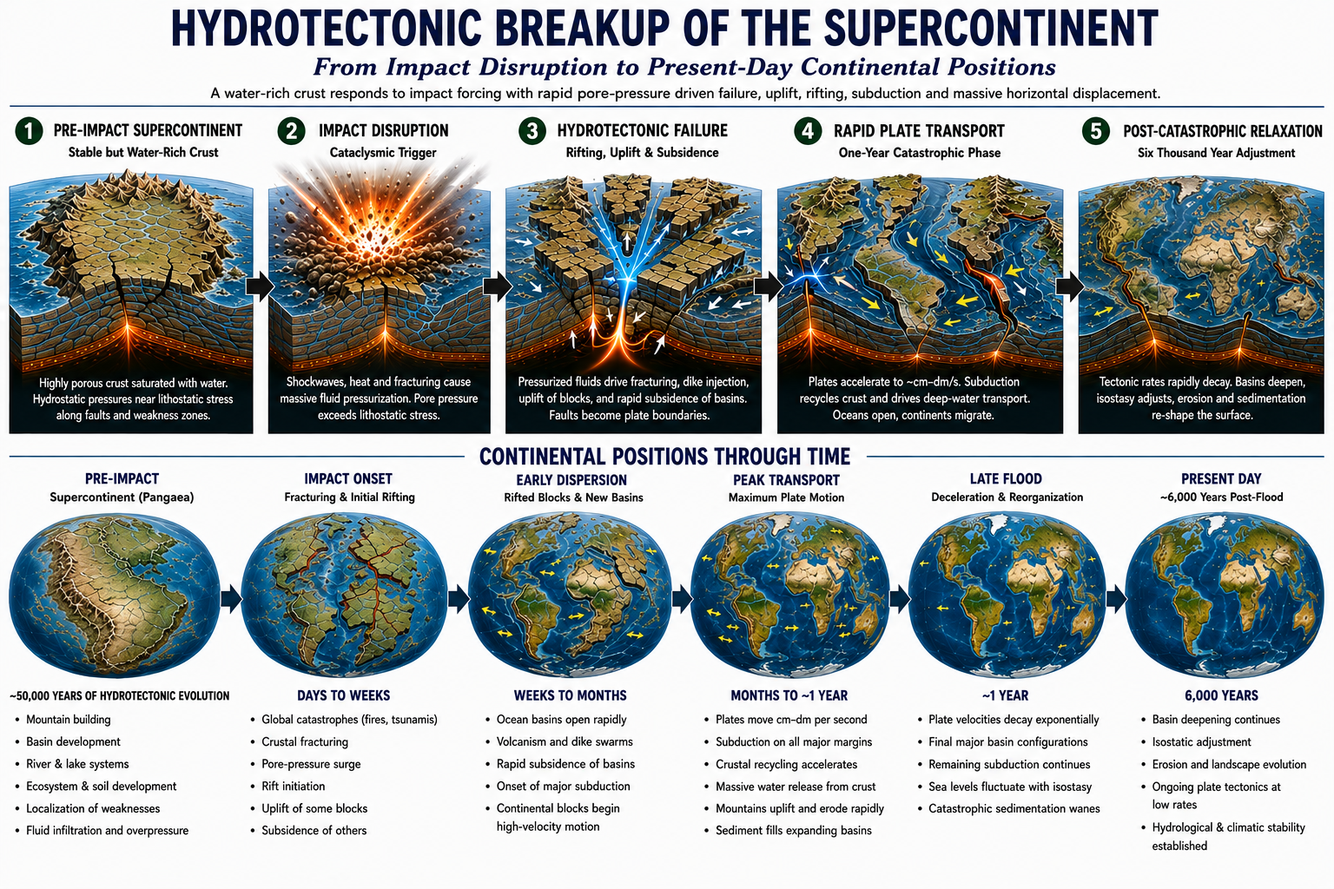
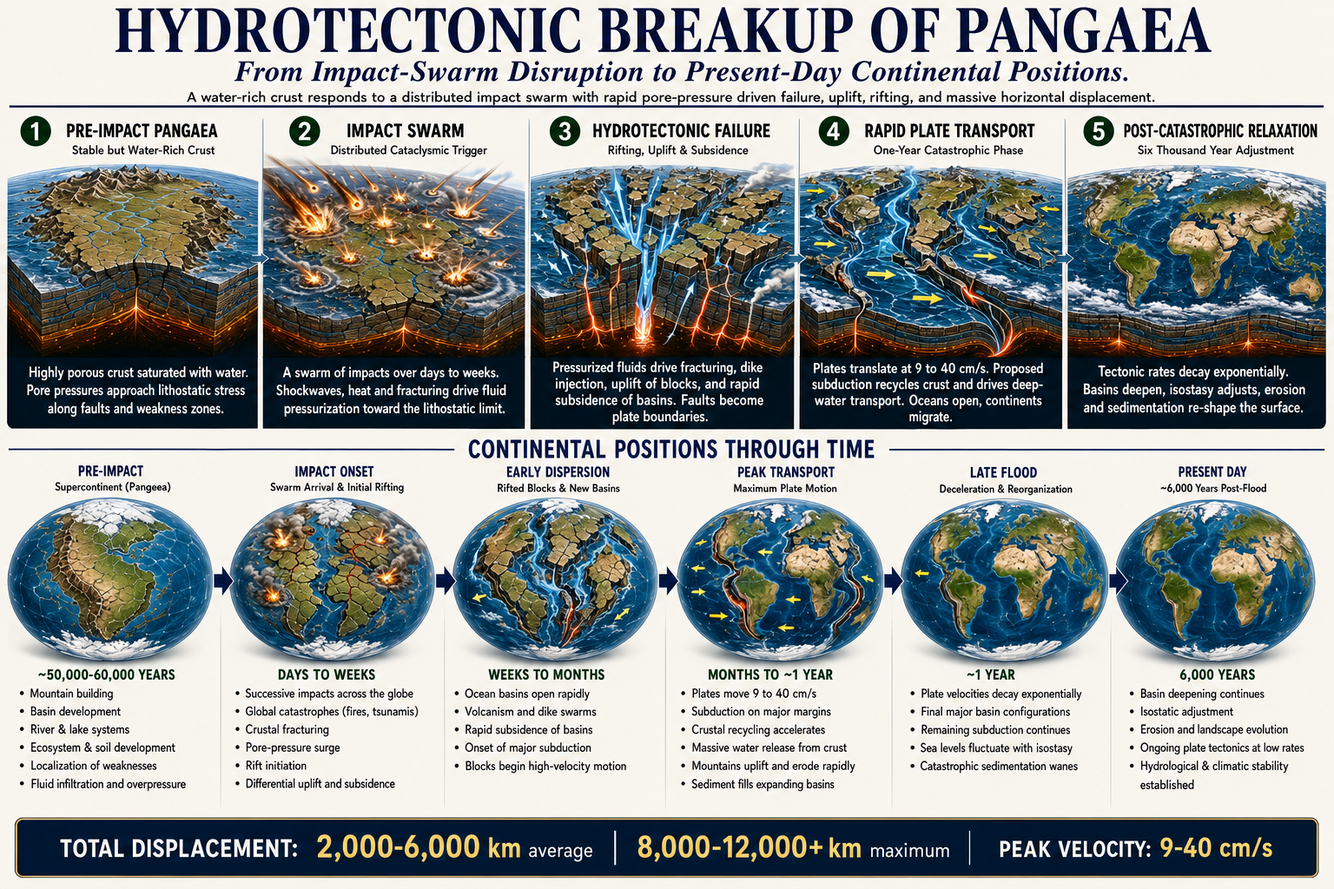
File second breakup-figure revision; close the 2026-08-16 velocity discrepancy
Rendered from the written spec derived from the previous audit. Fixes all three
discrepancies flagged hours earlier, plus the one carried since the programme's
second day.

- Impact swarm: eight-plus distinct impacts with bolides in flight. Resolves the
  regression against sibling figure initial-meteor-event.png; consistent with the
  F3/F4 swarm commitment and the same-day 40-day-distribution requirement.
- Pore pressure: "approach lithostatic stress" / "toward the lithostatic limit",
  matching WP-HTF-0003's lambda = 0.999995 to 0.9999996 and removing the figure's
  own internal contradiction.
- Subduction labelled "proposed", so the figure no longer asserts as accomplished
  what the open rheology gate has not established.
- VELOCITY CLOSED. Open since the 2026-08-16 audit: the original stated ~0.01-0.1
  m/s against a research figure of 9-40 cm/s, severe enough to force a crop for
  paper use. This render states 9 to 40 cm/s in caption, bullet and banner.

The crop's cost is also recovered: displacement distances (2,000-6,000 km average,
8,000-12,000+ km maximum) restored in a dedicated banner strip, separated from the
velocity figure so a future velocity dispute cannot take them down with it.

One residual recorded rather than absorbed: the bottom-row first globe reads
"Supercontinent (Pangea)" — the simplified spelling declined earlier the same day —
against "PANGAEA" in the title and panel 1. Not a blocker; the single item for any
future render.
[…]

diff --git a/03-solutions-baseline/3.3-prediction/appraisal.md b/03-solutions-baseline/3.3-prediction/appraisal.md
@@ -82,3 +82,4 @@ A claim that forbids an observation ordinary historical geology permits — or p
 | 2026-08-19 | **Genre identified as forensic; the discriminator standard re-based on Cleland's smoking gun** (JD-directed: *"This is a forensics exercise and model."* Full record [`../../dev-notes/20260819-forensic-genre-cleland.md`](../../dev-notes/20260819-forensic-genre-cleland.md); primary source **Cleland, C.E. (2001), *Geology* 29(11):987–990**, full text retrieved and read, confidence HIGH). Researched rather than accepted as a framing note. Cleland's thesis, in a mainstream geology journal: *"When it comes to testing hypotheses, historical science is not inferior to classical experimental science."* The method keyed to the genre is Chamberlin's multiple working hypotheses plus a search for a **smoking gun** — *"a trace that picks out one of the competing hypotheses as providing a better causal explanation for the currently available traces than the others"* — because the **asymmetry of overdetermination** means *"localized present events overdetermine their causes,"* leaving far more traces than are needed. **[`discriminators.md`](discriminators.md)'s four conditions were Popperian, i.e. experimental-science shape applied to a historical-science problem, and are re-based:** condition 2 (rival predicts it too → discriminates nothing) **promoted to the centre**, since it was always the smoking-gun criterion stated negatively; "forbids" **reframed as "discriminates,"** with **exclusion recognised as a first-class result** per forensic practice; "evaluable" **sharpened by rule 23c** (trace, not reconstruction); **pre-registration demoted from gate to discipline**, because Cleland's own paradigm smoking gun — the Alvarez K-Pg iridium anomaly — *"was not predicted in advance of its discovery"*; and **a fifth condition added: name the competing-hypothesis set**, which nothing in the belt previously supplied. Rule 24 and a new `methodology.md` §Genre carry the same content on the practice and framing surfaces | **The bar went up, not down, and this was checked rather than asserted.** Pre-registration was removed as genre-inappropriate; an explicit hypothesis set was added that no existing candidate currently states — all of 1, 2, 5, 6, 7 now owe it. **No killed candidate is resurrected:** the K-Pg ichnofabric verdict was re-checked and holds, more sharply (a trace both hypotheses predict picks out neither), since its fatal objection was always condition 2 and condition 2 is now the standard's centre. **Candidate 4 is weakened** by its own re-scoring (tomography is an inversion, so the "trace" is a model output) and **candidate 8 strengthened** (gap morphology is genuinely observational). The substantive re-reading: the **vapor ceiling** and the **enthalpy ceiling that killed CPT's steam jets** are *exclusions*, which forensic practice treats as first-class products and which had no natural category under the old framing — on this standard they are the most substantial evidential products the programme currently holds. That is a materially different picture from "zero discriminators evaluated," arrived at without lowering anything. Also recorded: the overclaim to avoid, since Cleland's K-Pg example points to *an impact* both accounts accept and therefore supplies methodological precedent, **not** evidential support |
 | 2026-08-19 | **"Araratia" retired; the pre-Flood supercontinent is Pangaea** (JD-directed. Full record [`../../dev-notes/20260819-retire-araratia.md`](../../dev-notes/20260819-retire-araratia.md)). Traditional spelling adopted — Wegener's 1920 *Pangäa*, Greek παν + Γαῖα with the αι digraph rendered *ae* as the geological literature prints it; also the form already used in this repo 9 times against 1, so it is both the scholarly convention and the lower-churn choice. **The substantive move behind the cosmetic one, stated because rule 23b makes it load-bearing:** a bespoke name asserted this programme's $S_0$ was *its own* reconstruction, distinct from the conventional one. Adopting **Pangaea** asserts instead that $S_0$ **is** the supercontinent mainstream reconstruction already names, and that the two accounts differ over its **timing and breakup mechanism**, not over its existence or geometry. **This costs the programme something real:** the supercontinent's configuration is no longer free, since Pangaea has a published geometry and fit, so ROADMAP item 2 (replace the anchor-distance proxy with an actual Pangaea-fit Euler-pole reconstruction) becomes **more** binding, not less — the target is now named. The benefit is removal of a gratuitous divergence: a bespoke name for an object both accounts accept invites exactly the just-so-story reading [`../../04-construct/methodology.md`](../../04-construct/methodology.md) §Genre warns against, and sharing the rival's vocabulary for a shared object concentrates the disagreement where it actually is. **Execution:** 15 occurrences across 10 files classified into three treatments rather than swept blindly, same discipline that saved the 2026-08-18 repo rename from corrupting 35 of 46 matches — **5 renamed** (living belt content: `hard-core.md` commitment 4, `stratigraphy/README.md` phase table, `kinematics/README.md` opening rewritten rather than substituted, `POSITION-PAPER.md` §1), **5 preserved** (dated records — this appraisal's own 2026-08-16 rows and both `20260817-*` dev-notes, since editing them would falsify what was decided then), **5 preserved and flagged** (descriptions of already-shipped videos and rendered PNGs that display the retired name; editing a description to disagree with its artifact makes the record less accurate, not more) | **Nominal at the belt surface, substantive at the hypothesis surface, and no verdict moved.** Records a genuine narrowing of the dispute with the rival — from "does this supercontinent exist and what was it" to "when did it break up and by what mechanism" — which is the more testable question and the harder one for this programme. **Open work created, both deliberately left as JD's calls rather than mechanical follow-ups:** re-render the visualization set, since the images are the artifact and no text edit reaches them; and the published Zenodo PDF (10.5281/zenodo.21972859) carries "Araratia" in its commitment 4, the same attached-file-versus-metadata problem the 2026-08-18 title change hit |
 | 2026-08-19 | **Revised breakup infographic audited, filed, and predecessors archived** (JD-directed; audit in [`../../assets/images/README.md`](../../assets/images/README.md)). Filed as `assets/images/hydrotectonic-breakup-sequence.png`; `continental-shift.png` and `continental-shift-cropped.png` moved to `assets/images/archive/` rather than deleted, per rules 6 and 17. **Verdict: viable, and it fixes both defects flagged against its predecessor on 2026-08-16.** (1) It names the supercontinent **Pangaea**, matching the same-day retirement of "Araratia" — the predecessor displayed the retired term and had been marked stale hours earlier. (2) **Pacing corrected**: the predecessor showed near-complete rifting into continent-shaped blocks at "Days to Weeks," ahead of peak transport at "Months to ~1 Year"; the revision runs initial rifting at days-to-weeks, early dispersion at weeks-to-months, peak transport at months-to-a-year, consistent with the model's own relaxation profile. **Velocity improved but not fully resolved:** the predecessor's hard ~0.01–0.1 m/s range had its ceiling at or below the research floor of 9–40 cm/s — the conflict that forced the 2026-08-16 crop — while the revision states "~cm–dm/s" as an order of magnitude, which accommodates 0.09–0.406 m/s where the old range could not, but still is not the belt's specific figure. **Three discrepancies flagged rather than absorbed:** the trigger is drawn as a *single* impact where the belt commits to a **swarm** (a regression against sibling figure `initial-meteor-event.png`, which renders multiple impacts, and now also against the 2026-08-19 requirement that the swarm be temporally distributed across the 40 days); one panel reads "pore pressure **exceeds** lithostatic stress" where `WP-HTF-0003` derives λ = 0.999995–0.9999996, i.e. approaching lithostatic from *below*, and it contradicts the figure's own panel 1 ("near lithostatic"); and subduction is depicted as accomplished when the vertical half remains the open rheology gate, 3–4 orders short. Position paper Figure 3 switched to the revision with its caption rewritten — the crop workaround is retired, since its stated revisit condition (the velocity/detachment reconciliation) was met by `WP-HTF-0003` on 2026-08-18 | **No belt content changed and no verdict moved — this is an illustration swap, audited to the same standard as a belt claim.** Recorded because the audit found the revision *regressing* on one point (single impact vs. swarm) even while fixing two others, and reporting only the fixes would have been the selective reading rule 4a exists to prevent. The archived pair is retained rather than deleted so the 2026-08-16 audit and the 2026-08-19 comparison both stay checkable. One recoverable loss noted: the displacement distances (2,000–6,000 km average, 8,000–12,000+ km maximum) that were consistent with the research and were lost with the cropped row could be restored on a future render |
+| 2026-08-19 | **Second breakup-figure revision filed; the 2026-08-16 velocity discrepancy is CLOSED** (JD-directed; audit in [`../../assets/images/README.md`](../../assets/images/README.md)). Rendered from a written spec derived from the previous audit, and it fixes **all three** discrepancies flagged hours earlier plus the long-standing one. **(1) Impact swarm** — panel 2 now renders eight-plus distinct impacts with bolides in flight, resolving what was a regression against sibling figure `initial-meteor-event.png` and aligning with the F3/F4 swarm commitment and the same-day 40-day-distribution requirement. **(2) Pore pressure** now "approaches lithostatic stress" and pressurises "toward the lithostatic limit," matching `WP-HTF-0003`'s λ = 0.999995–0.9999996 and removing the figure's own internal contradiction. **(3) Subduction** labelled "**proposed**," so the figure no longer asserts as accomplished what the open rheology gate has not established. **(4) The velocity conflict, open since the 2026-08-16 audit, is closed:** the original stated ~0.01–0.1 m/s against a research figure of 9–40 cm/s, a conflict severe enough to force a crop for paper use; this render states **9 to 40 cm/s** in caption, bullet, and banner — the belt's own figure verbatim. **The crop's cost is also recovered:** displacement distances (2,000–6,000 km average, 8,000–12,000+ km maximum) are restored in a dedicated banner strip, so a future velocity dispute cannot take them down again. Pre-impact interval now carries the belt's full ~50,000–60,000 yr range rather than the low end alone. **One residual defect recorded rather than absorbed:** the bottom-row first globe reads "Supercontinent (**Pangea**)" — the American-simplified spelling the programme explicitly declined the same day — against "PANGAEA" in the title and panel 1, so the figure is internally inconsistent on one sub-header. Not a blocker; the single item for a future render. Canonical filename kept stable so the paper's Figure 3 reference needs no re-pointing; the first revision archived as `hydrotectonic-breakup-sequence-superseded-20260819.png` per rules 6 and 17, so the two-step correction stays checkable | **No belt content changed and no verdict moved — an illustration swap, audited to the same standard as a belt claim.** Worth recording for one reason beyond housekeeping: this closes the **oldest open flag in the visualization set**, carried since the programme's second day, and it closed because the audit stated the defect precisely enough to be rendered against rather than merely noting that the image "disagreed with the research." The intermediate revision is retained because the correction took two passes, and a record showing only the final state would misrepresent how it was reached. `kinematics/README.md`'s flagged-discrepancy note is updated from "largely resolved" to closed; the position paper's Figure 3 caption is rewritten to match |

diff --git a/assets/images/README.md b/assets/images/README.md
@@ -10,30 +10,31 @@ Cross-section of the pre-Flood water-rich porous crust — pore water, fracture 
 
 Five-panel sequence: multiple impacts → energy deposition → crustal shock/fracturing → pore-pressure surge → hydrotectonic failure. Matches the mechanism as actually stated in the source research — impacts as threshold-crossing triggers, not literal displacement engines ("the collective meteoritic event provides the trigger; the water-rich porous crust provides the mechanism"). **Does not bear on the rheology gate** ([`../../03-solutions-baseline/3.2-theory/rheology/README.md`](../../03-solutions-baseline/3.2-theory/rheology/README.md)): it renders the qualitative failure sequence, not whether the required 10¹³–10¹⁴ Pa·s viscosity collapse is physically reachable. Treat as illustration of mechanism, not as progress on the gating open problem.
 
-## `hydrotectonic-breakup-sequence.png` — revised, filed 2026-08-19
+## `hydrotectonic-breakup-sequence.png` — second revision, filed 2026-08-19
 
-**Supersedes `continental-shift.png` and `continental-shift-cropped.png`**, both moved to [`archive/`](archive/) rather than deleted, per [`research-practices.md`](../../04-construct/methods.md) rules 6 and 17 — superseded work is kept and labelled, not removed.
+**Figure of record for the breakup sequence.** Supersedes an earlier same-day revision (archived) and, before that, the `continental-shift` pair. Canonical filename kept stable across revisions so [`../../paper/POSITION-PAPER.md`](../../paper/POSITION-PAPER.md) Figure 3 does not need re-pointing.
 
-Five-panel mechanism sequence (pre-impact supercontinent → impact disruption → hydrotectonic failure → rapid plate transport → post-catastrophic relaxation) over a six-frame continental-positions timeline with per-phase bullets.
+Five-panel mechanism sequence over a six-frame continental-positions timeline, with a displacement/velocity banner.
 
-**What the revision fixes — both of the predecessor's flagged defects:**
+**All three discrepancies flagged against the first revision are fixed:**
 
-- **Naming.** States **"Supercontinent (Pangaea)"**, matching the 2026-08-19 retirement of "Araratia" ([`../../dev-notes/20260819-retire-araratia.md`](../../dev-notes/20260819-retire-araratia.md)). The predecessor displayed the retired term and was flagged stale on that point the same day.
-- **Pacing.** The predecessor's panel 2 showed near-complete rifting into continent-shaped blocks at "Days to Weeks," ahead of peak transport at "Months to ~1 Year." The revision front-loads far less: "Impact Onset / Fracturing & Initial Rifting" at days-to-weeks, "Early Dispersion" at weeks-to-months, "Peak Transport" at months-to-a-year. Consistent with the model's own relaxation profile.
+- **Impact swarm, not a single impact.** Panel 2 now renders eight-plus distinct impact points with separate fireballs and bolides still in flight, and the second globe shows multiple impact sites. Caption: *"A swarm of impacts over days to weeks."* This resolves what was a **regression against sibling figure `initial-meteor-event.png`**, and it is now consistent with the swarm commitment in [`../../03-solutions-baseline/3.2-theory/rheology/README.md`](../../03-solutions-baseline/3.2-theory/rheology/README.md) F3/F4 and with the 2026-08-19 requirement that the swarm be temporally distributed across the 40 days.
+- **Pore pressure corrected to approach-from-below.** Panel 1: *"Pore pressures approach lithostatic stress."* Panel 2: *"drive fluid pressurization toward the lithostatic limit."* Both now match `WP-HTF-0003`'s derived λ = 0.999995 to 0.9999996, and the figure is internally consistent where the previous revision contradicted itself.
+- **Subduction no longer asserted as accomplished.** Panel 4 reads *"Proposed subduction recycles crust"* — the hedge survived the render, which matters because the vertical half remains the open rheology gate.
 
-**Velocity — improved, not fully resolved.** The predecessor stated a hard range of ~0.01–0.1 m/s, whose ceiling sat at or below the research floor of 9–40 cm/s — the discrepancy that forced the crop. The revision states **"~cm–dm/s"** as an order of magnitude, which does accommodate 0.09–0.406 m/s when read as order-of-magnitude (0.4 m/s being 4 dm/s) in a way the old hard range could not. **Still not the belt figure itself**: [`../../03-solutions-baseline/3.2-theory/kinematics/README.md`](../../03-solutions-baseline/3.2-theory/kinematics/README.md) derives 9–40 cm/s specifically, and a future render should state that. Recorded as a residual, materially reduced from the predecessor's outright conflict.
+**The velocity discrepancy is CLOSED.** Open since the 2026-08-16 audit, when the original stated ~0.01–0.1 m/s against a research figure of 9–40 cm/s — a conflict severe enough to force a crop for paper use. This render states **"9 to 40 cm/s"** in the panel caption, in the peak-transport bullet, and in the banner. It is now the belt's own figure verbatim, so [`../../03-solutions-baseline/3.2-theory/kinematics/README.md`](../../03-solutions-baseline/3.2-theory/kinematics/README.md) no longer carries a live image-vs-research conflict.
 
-**Three discrepancies flagged rather than absorbed:**
+**The 2026-08-16 crop loss is recovered.** The banner restores the displacement distances that were discarded with the cropped row — **2,000–6,000 km average, 8,000–12,000+ km maximum** — consistent with the research's 2,940–12,800 km anchor-to-present table. Placing them in a dedicated strip rather than beside the velocity figure means a future velocity dispute cannot take them down again.
 
-- **Trigger drawn as a single impact.** Panel 2 renders one cataclysmic impact. The belt commits to an impact **swarm** — F3/F4 in [`../../03-solutions-baseline/3.2-theory/rheology/README.md`](../../03-solutions-baseline/3.2-theory/rheology/README.md), with Chicxulub a declared member, and as of 2026-08-19 a requirement that the swarm be **temporally distributed across the 40 days** ([`../../03-solutions-baseline/3.2-theory/water-ledger/README.md`](../../03-solutions-baseline/3.2-theory/water-ledger/README.md) §Precipitation mechanism). This is a **regression against a sibling figure**: `initial-meteor-event.png` correctly renders multiple impacts. Correct on the next render.
-- **"Pore pressure exceeds lithostatic stress"** (panel 2) overshoots the derived requirement. `WP-HTF-0003` solves a pore-pressure ratio of λ = 0.999995 to 0.9999996 — approaching lithostatic from *below*, not exceeding it. Panel 1's "near lithostatic" is correct; panel 2 is not, and the two disagree with each other.
-- **Subduction is depicted as accomplished.** "Subduction on all major margins," "subduction recycles crust." The vertical/subduction half of the mechanism is the **open rheology gate**, still 3–4 orders of magnitude short. Same caveat this README already applies to `initial-meteor-event.png`: **illustration of a mechanism, not progress against the gating open problem.**
+**Timescales.** ~50,000–60,000 yr pre-impact (the belt's full 50–60 kyr range, where the prior render gave only the low end); days-to-weeks, weeks-to-months, months-to-a-year, ~1 year, 6,000 years. Matches the belt's $v(t) = v_0 e^{-t/\tau} + v_\infty$ relaxation.
 
-**Timescales check out.** ~50,000 yr pre-impact interval (belt: ~50–60 kyr creation-to-Fall); one-year catastrophic phase; ~6,000 yr post-Flood relaxation with exponential velocity decay, matching the belt's $v(t) = v_0 e^{-t/\tau} + v_\infty$.
+**One residual defect, minor and recorded rather than absorbed.** The bottom-row first globe is sub-headed **"Supercontinent (Pangea)"** — the American-simplified spelling — against **"PANGAEA"** in the title and panel 1. The programme adopted the traditional *ae* form on 2026-08-19 with stated reasoning ([`../../dev-notes/20260819-retire-araratia.md`](../../dev-notes/20260819-retire-araratia.md)), so the figure displays the rejected variant in one place and is internally inconsistent on it. **Not a blocker** — every substantive claim is now correct — but it is the single item for any future render. A stray full stop also terminates the subtitle.
 
-**Verdict: viable and an improvement on what it replaces.** Filed as the figure of record for the breakup sequence. Three items for the next render: multiple impactors, the pore-pressure wording, and the specific 9–40 cm/s figure.
+**Verdict: viable, and the strongest version of this figure to date.** Filed as the figure of record.
 
 ## `archive/` — superseded, retained
+
+- **`hydrotectonic-breakup-sequence-superseded-20260819.png`** — the first 2026-08-19 revision, superseded the same day by the second. It fixed the naming and pacing defects of the `continental-shift` pair but drew the trigger as a single impact, stated "pore pressure exceeds lithostatic stress," and gave velocity only as an order of magnitude ("~cm–dm/s"). Retained so the two-step correction stays checkable, per rules 6 and 17.
 
 - **`continental-shift.png`** — the predecessor infographic. Displays the retired name "Araratia" and the conflicting ~0.01–0.1 m/s velocity range. Kept as the record of what was audited on 2026-08-16 and what the 2026-08-19 revision was measured against.
 - **`continental-shift-cropped.png`** — the paper-use derivative created 2026-08-16 (JD-directed) with the disputed displacement-statistics row cropped out, formerly Figure 3 in the position paper. The crop was a workaround for the velocity conflict; the revision addresses that conflict directly, so the derivative has no remaining use. Its real cost is now recoverable: the displacement distances (2,000–6,000 km average, 8,000–12,000+ km maximum) that were lost with the cropped row and are consistent with the research could be restored on a future render.

diff --git a/04-construct/means/sessions/2026-08-19.md b/04-construct/means/sessions/2026-08-19.md
@@ -408,3 +408,40 @@ retired — its own stated revisit condition (the velocity/detachment-depth reco
 
 **Recoverable loss noted:** the displacement distances (2,000–6,000 km avg, 8,000–12,000+ km max),
 consistent with the research and lost with the cropped row, could be restored on a future render.
+
+---
+
+## Continuation 9 — second figure revision; the oldest visualization flag closes
+
+JD supplied a second revision, rendered from the written spec produced after the first audit.
+
+**All three discrepancies from continuation 8 are fixed**, plus the one carried since 2026-08-16:
+
+1. **Impact swarm** — eight-plus distinct impacts with bolides in flight. Resolves the regression
+   against sibling figure `initial-meteor-event.png`; consistent with F3/F4 and with continuation 2's
+   40-day-distribution requirement.
+2. **Pore pressure** — "approach lithostatic stress" / "toward the lithostatic limit." Matches
+   `WP-HTF-0003`'s λ = 0.999995–0.9999996 and removes the figure's internal contradiction.
+3. **Subduction** — labelled "**proposed**," so the figure no longer asserts what the open rheology
+   gate has not established. The hedge survived the render, which was not guaranteed.
+4. **Velocity — CLOSED.** Open since the 2026-08-16 audit; the original's ~0.01–0.1 m/s had its
+   ceiling at or below the 9–40 cm/s research floor, a conflict severe enough to force a crop for
+   paper use. This render states **9 to 40 cm/s** in caption, bullet, and banner.
+
+**The crop's cost is recovered** — displacement distances (2,000–6,000 km avg, 8,000–12,000+ km max)
+restored in a dedicated banner strip, deliberately separated from the velocity figure so a future
+velocity dispute cannot take them down with it.
+
+**One residual, recorded not absorbed:** the bottom-row first globe reads "Supercontinent
+(**Pangea**)" — the simplified spelling declined earlier the same day — against "PANGAEA" in the
+title and panel 1. Internally inconsistent on one sub-header. Not a blocker; the single item for any
+future render.
+
+**Filed** under the canonical name so the paper's Figure 3 needs no re-pointing. The first revision
+archived as `hydrotectonic-breakup-sequence-superseded-20260819.png` — the correction took two
+passes, and a record showing only the final state would misrepresent how it was reached.
+
+**Worth noting why it closed.** The oldest open flag in the visualization set, carried since the
+programme's second day, closed because the audit stated the defect precisely enough to be *rendered
+against* — not merely that the image "disagreed with the research." Audits that name the exact
+replacement string are actionable; audits that name a disagreement are not.

diff --git a/03-solutions-baseline/3.2-theory/kinematics/README.md b/03-solutions-baseline/3.2-theory/kinematics/README.md
@@ -29,7 +29,7 @@ JD's prior slice ([`jdlongmire/global-flood-hydrotectonic-model`](https://github
 
 **Open (ROADMAP item 2):** replace the anchor-distance proxy with an actual Pangaea-fit paleomagnetic reconstruction (Euler poles). The current "no primary kinematic impossibility" conclusion is only as strong as the crude proxy behind it.
 
-**Visualization vs. research — largely resolved 2026-08-19.** The predecessor infographic (`continental-shift.png`, now in [`../../../assets/images/archive/`](../../../assets/images/archive/)) stated catastrophic-phase plate velocities as ~0.01–0.1 m/s against the ~0.093–0.406 m/s derived above — its ceiling at or below the research's floor. Its replacement, [`hydrotectonic-breakup-sequence.png`](../../../assets/images/hydrotectonic-breakup-sequence.png), states the velocity as an order of magnitude (~cm–dm/s), which *does* accommodate 0.09–0.406 m/s where the old hard range could not. **Residual, not closed:** the figure still does not state the belt's specific 9–40 cm/s. **The research figure remains authoritative.** Full audit, including two further discrepancies the revision carries (single impact drawn where the belt commits to a swarm; "pore pressure exceeds lithostatic" against this section's own derived λ < 1), in [`../../../assets/images/README.md`](../../../assets/images/README.md).
+**Visualization vs. research — CLOSED 2026-08-19.** Open since the 2026-08-16 audit: the predecessor infographic (`continental-shift.png`, now in [`../../../assets/images/archive/`](../../../assets/images/archive/)) stated catastrophic-phase plate velocities as ~0.01–0.1 m/s against the ~0.093–0.406 m/s derived above, its ceiling at or below the research's floor — a conflict severe enough that the figure had to be cropped for paper use. The current figure of record, [`hydrotectonic-breakup-sequence.png`](../../../assets/images/hydrotectonic-breakup-sequence.png), states **9 to 40 cm/s** in the panel caption, the peak-transport bullet, and its banner: this section's own figure, verbatim. Two further discrepancies carried by the intermediate revision (single impact where the belt commits to a swarm; "pore pressure exceeds lithostatic" against the λ < 1 derived above) are also fixed. **No live image-vs-research conflict remains on velocity.** One minor residual — a bottom-row sub-header spelling "Pangea" against the title's "Pangaea" — is recorded in [`../../../assets/images/README.md`](../../../assets/images/README.md).
 
 ## Hydraulic consequences of translation under a non-uniform water column (JD, 2026-08-17)
 

diff --git a/paper/POSITION-PAPER.md b/paper/POSITION-PAPER.md
@@ -42,7 +42,7 @@ Every prior version of catastrophic plate tectonics has foundered on the same co
 
 ![Hydrotectonic breakup sequence and continental positions through time](../assets/images/hydrotectonic-breakup-sequence.png)
 
-**Figure 3.** The proposed breakup sequence (pre-impact supercontinent through post-catastrophic relaxation) and continental positions through time. Revised 2026-08-19; supersedes the earlier `continental-shift` pair, now archived. The revision names the supercontinent Pangaea per the naming decision of the same date, and states plate velocity as an order of magnitude (centimetres to decimetres per second) rather than as the hard range that conflicted with this programme's own kinematics figure of 9 to 40 cm/s. Two residual mismatches are recorded rather than absorbed: the trigger is drawn as a single impact where the model commits to a swarm, and one panel reads "pore pressure exceeds lithostatic stress" where the derived requirement is a pore-pressure ratio just below unity. Full audit in `assets/images/README.md`. Illustrative of sequence and geometry only; not a validated plate-motion reconstruction (Section 3.4), and the subduction it depicts is subject to the unresolved rheology gate.
+**Figure 3.** The proposed breakup sequence (pre-impact supercontinent through post-catastrophic relaxation) and continental positions through time. Revised twice on 2026-08-19; supersedes the earlier `continental-shift` pair and a first revision, both archived. The current figure names the supercontinent Pangaea, renders the trigger as a distributed impact swarm rather than a single impact, states pore pressure as approaching the lithostatic limit from below (consistent with the pore-pressure ratio derived in Section 3.4), and states plate velocity as 9 to 40 cm/s — this programme's own kinematics figure, resolving a conflict that had previously required cropping the source infographic for paper use. Displacement distances (2,000 to 6,000 km average, 8,000 to 12,000+ km maximum) are restored in the banner. Full audit in `assets/images/README.md`. Illustrative of sequence and geometry only; not a validated plate-motion reconstruction (Section 3.4), and the subduction it depicts is labelled proposed because it remains subject to the unresolved rheology gate.
 
 ### 3.1 Principle
 
